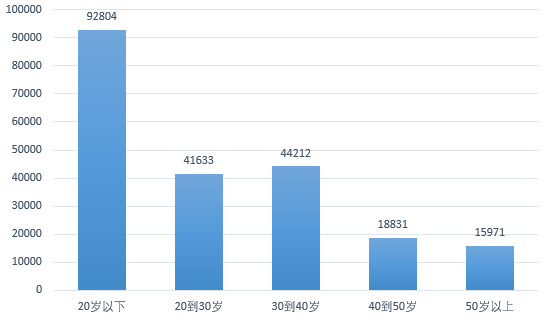
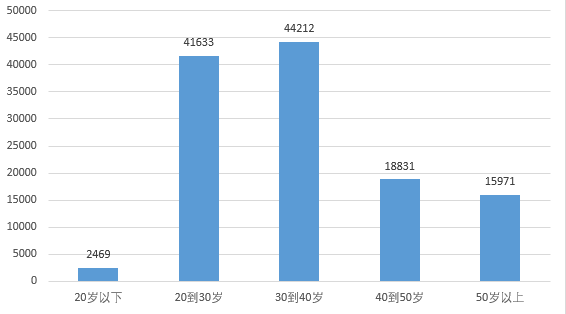
~

diff --git a/数据分析/项目/Airbnb产品数据分析/Airbnb产品数据分析.md b/数据分析/项目/Airbnb产品数据分析/Airbnb产品数据分析.md
@@ -72,6 +72,32 @@ print(train_users_df.head())
 4        Chrome                  US  
 ```
 
+| 数据表：train_users     | 含义                                           |
+| ----------------------- | ---------------------------------------------- |
+| id                      | 用户ID                                         |
+| date_account_created    | 帐户创建日期                                   |
+| date_first_booking      | 首次预订的日期                                 |
+| gender                  | 性别                                           |
+| age                     | 年龄                                           |
+| signup_method           | 注册方式                                       |
+| signup_flow             | 用户注册的页面                                 |
+| language                | 语言偏好                                       |
+| affiliate_channel       | 营销方式                                       |
+| affiliate_provider      | 营销来源，例如google，craigslist，其他         |
+| first_affiliate_tracked | 在注册之前，用户与之交互的第一个营销广告是什么 |
+| signup_app              | 注册来源                                       |
+| first_device_type       | 注册时设备的类型                               |
+| first_browser           | 注册时使用的浏览器名称                         |
+| country_destination     | 目的地国家                                     |
+
+| 数据表sessions | 含义                    |
+| -------------- | ----------------------- |
+| user_id        | 与users表中的“id”列连接 |
+| action         | 埋点名称                |
+| action_type    | 操作事件的类型          |
+| action_detail  | 操作事件的描述          |
+| device_type    | 此次会话所使用的设备    |
+
 ## 4.数据清洗
 
 ### 缺失值查看
@@ -201,13 +227,15 @@ train_users_df = train_users_df.drop_duplicates(subset=['id'],keep='first')
 
    ![性别分布](性别分布.png)
 
+   可以看出总样本数据中，女性人数占比略高于男性，产品受女性欢迎度较高。
+
    
 
 2. 年龄分布
 
    ```python
    def change_age(age):
-       if age <= 20:
+       if age >0 and age <=20:
            return "20岁以下"
        elif age >20 and age <=30:
            return "20到30岁"
@@ -215,7 +243,7 @@ train_users_df = train_users_df.drop_duplicates(subset=['id'],keep='first')
            return "30到40岁"
        elif age >40 and age <=50:
            return "40到50岁"
-       else:
+       elif age >50 and age <=100:
            return "50岁以上"
            
    age_df = train_users_df.copy()
@@ -225,13 +253,17 @@ train_users_df = train_users_df.drop_duplicates(subset=['id'],keep='first')
 
    | 年龄     | 人数  |
    | -------- | ----- |
-   | 20岁以下 | 92804 |
+   | 20岁以下 | 2469  |
    | 20到30岁 | 41633 |
    | 30到40岁 | 44212 |
    | 40到50岁 | 18831 |
    | 50岁以上 | 15971 |
 
    ![性别分布](年龄分布.png)
+
+   由直方图可以看出，主要用户群体集中在20-40岁人群，20岁以下群体可能由于资金因素，消费人群最少
+
+   
 
 3. 使用语言分布
 
@@ -269,6 +301,12 @@ train_users_df = train_users_df.drop_duplicates(subset=['id'],keep='first')
 
    ![性别分布](语言分布.png)
 
+   - airbnb产品很国际化，用户遍布多个地区。
+
+   - 有超过90%的用户是英语国家（欧美）；airbnb是2013年开始进入中国市场的（此数据集止于2014年），所以此时中文用户数量虽然排名第二，但是占比却非常小。
+
+     
+
 4. 国家目的地分布
 
    ```python
@@ -290,6 +328,10 @@ train_users_df = train_users_df.drop_duplicates(subset=['id'],keep='first')
    | PT    | 217   |
 
    ![目的地国家](目的地国家.png)
+
+   客户预定民宿地主要集中在美国，其次是法国意大利德国等。
+
+   
 
 5. 注册app来源分布
 
@@ -320,7 +362,8 @@ train_users_df = train_users_df.drop_duplicates(subset=['id'],keep='first')
 
    ![](注册app.png)
 
-   
+   - web端浏览量占比86%，其中web端桌面应用占比接近90%，表明大多数用户喜欢用桌面网页端浏览，可能是因为桌面web端访问方便，数据丰富，选择民宿风格，查看地理位置方便。另一个可能的原因是2014年智能手机还没有像现在一样十分普遍。
+   - 使用苹果设备的用户数量大于使用其他设备的用户数量。
 
 ### 5.2流量分析
 
@@ -347,7 +390,13 @@ train_users_df = train_users_df.drop_duplicates(subset=['id'],keep='first')
 
    ![](用户量.png)
 
+- airbnb的用户增长曲线健康，前期（2011年之前）平缓，2012年2月之后开始快速增长。
 
+- 2012年之后的增长速度很快。
+
+- 此产品新用户的增加**存在季节性规律**：每年的7～10月，产品都会迎来用户增长的高峰，推测为夏季是旅行的旺季，而短租产品本身就是旅行消费的一种。
+
+  
 
 2.渠道转化
 
@@ -361,7 +410,47 @@ af_prv_df['类型'] = af_prv_df['channel'] + '-' + af_prv_df['provider']
 af_prv_df['占比'] = af_prv_df['渠道预定数量'] /af_prv_df['渠道全部数量']
 ```
 
+| 类型                 | 渠道预定数量 | 渠道全部数量 | 占比  |
+| -------------------- | ------------ | ------------ | ----- |
+| seo-google           | 2739         | 5691         | 48.1% |
+| other-craigslist     | 1616         | 3471         | 46.6% |
+| seo-facebook         | 724          | 1677         | 43.2% |
+| direct-direct        | 59234        | 137426       | 43.1% |
+| sem-brand-google     | 10705        | 25069        | 42.7% |
+| other-other          | 1508         | 3656         | 41.2% |
+| sem-brand-bing       | 375          | 950          | 39.5% |
+| sem-non-brand-google | 6516         | 16947        | 38.4% |
+| api-other            | 2785         | 8167         | 34.1% |
+| remarketing-google   | 368          | 1094         | 33.6% |
+| sem-non-brand-bing   | 296          | 889          | 33.3% |
+| other-padmapper      | 252          | 768          | 32.8% |
+| sem-non-brand-vast   | 271          | 829          | 32.7% |
+| content-google       | 451          | 2892         | 15.6% |
+
+![](渠道数量.png)
+
 ![](渠道转化.png)
+
+
+
+- 在所有渠道转化中，绝大多数渠道的转化率都超过了30%，整体转化情况良好。
+
+- content_google的转化率异常，明显低于转化率的均值。需要查看哪里出现问题。
+
+- drict（直接应用市场下载注册）的注册量最多，占总注册量的64.38%。我们的分析目的是查看推广渠道的好坏，具体分析中排除了drict。
+
+- sem（谷歌竞价）整体的表现要远好于其他营销方式，前两种sem的营销方式，无论是带来的用户量,注册量及转化率都好于其他营销方式。
+
+- 渠道注册量符合二八定律，前7个渠道的注册量已经占据了产品总的渠道来源的90%以上。
+
+  
+
+  **优质渠道**
+
+  - seo_google的注册量和转化率表现都很好。
+  - sem_brand_google的注册量和转化率表现很好。
+
+  
 
 3.营销广告转化
 
@@ -376,21 +465,36 @@ first_aff_trac_df['占比'] = first_aff_trac_df['该来源预定人数'] /first_
 first_aff_trac_df = first_aff_trac_df[first_aff_trac_df['营销广告来源'] != 'untracked']
 ```
 
+| 营销广告来源  | 该来源预定人数 | 该来源全部人数 | 占比  |
+| ------------- | -------------- | -------------- | ----- |
+| marketing     | 63             | 139            | 45.3% |
+| linked        | 20102          | 46287          | 43.4% |
+| omg           | 16425          | 43982          | 37.3% |
+| tracked-other | 2290           | 6156           | 37.2% |
+| product       | 542            | 1556           | 34.8% |
+| localops      | 9              | 34             | 26.5% |
+
 ![](广告占比.png)
+
+- linked推广内容带来的用户转化率和流量都很高，可以后期进行重点推广。
+- marking带来的流量较少，但是转化率最高，可以进行重点推广。
+- 'product'及'localops'排在所有营销内容的最后两名，带来的流量及转化量都不是很理想，后续可以较少相关资源的配比。
+
+
 
 4.转化量漏斗分析
 
 ```python
 #总用户量
 total_user_df = sessions_df.drop_duplicates('user_id')
-#注册用户数
-user_creat_df = total_user_df[['user_id','action_detail']].merge(train_users_df[['id','date_account_created']],how = 'left',left_on = 'user_id',right_on = 'id')
-#定义用户在平台浏览次数超过10次即为活跃用户。活跃用户数为
+#定义用户在平台操作次数超过10次即为活跃用户。
+#活跃用户数
 n_df = sessions_df[['user_id','action_detail']].merge(train_users_df[['id','date_account_created']],how = 'left',left_on = 'user_id',right_on = 'id')
-n_df = n_df[n_df['date_account_created'].notnull()]
 n_df = n_df.groupby('user_id').size().to_frame().reset_index()
 n_df.columns = ['user_id','num']
 n_df = n_df[n_df['num']>10]
+#注册用户数
+user_creat_df = total_user_df[['user_id','action_detail']].merge(train_users_df[['id','date_account_created']],how = 'left',left_on = 'user_id',right_on = 'id')
 #注册用户中提交过订单信息的用户数
 place_order_df = user_creat_df[user_creat_df['date_account_created'].notnull()]
 place_order_df = sessions_df[sessions_df['action_detail'] == 'reservations'].groupby('user_id').size()
@@ -407,12 +511,36 @@ re_pay_user_df = re_pay_user_df[re_pay_user_df['num'] > 1]
 | 类别             | 人数   |
 | ---------------- | ------ |
 | 总用户量         | 135484 |
+| 活跃用户数       | 111977 |
 | 注册用户数       | 73815  |
-| 活跃用户数       | 58881  |
 | 提交订单用户数   | 10366  |
 | 成功支付的用户数 | 9018   |
 | 重复购买用户数   | 4153   |
 
 ![](转化率.png)
 
+- 注册用户到下单用户是airbnb转化漏斗中流失率最高的一个环节。仅有14.04%的注册用户下单。
+
+- 活跃和复购环节表现的好，其中有46.05%的下单用户复购，说明在商品质量和后续服务比较吸引用户。
+
+- 提交订单的用户中有大约13%的用户没有最终支付，需要查找原因。
+
+  
+
 ## 6.总结
+
+- 用户性别中，女性用户多于男性用户，但是差别不大。用户年龄以中青年为主。用户分布地区最多的为欧美地区，其次是中国，但欧美占比达到了90%以上。
+- 此产品新用户的增加存在季节性规律：每年的7～10月，产品都会迎来用户增长的高峰。
+- 直连用户的注册量最多，占总注册量的64.38%。注册量排名前6的渠道，占据了产品全部渠道注册来源数量的90%以上。
+- 主要渠道中，content_google的转化率异常，明显低于转化率的均值。
+- airbnb转化漏斗中流失率最高的一个环节是“用户下单”，仅有14%的注册用户下单。下单用户中有大约13%的用户最终没有支付成功。活跃和复购环节表现良好，产品质量和后续服务做的比较好。
+
+## 7.建议
+
+1. 根据年龄分布特征，建议SEO或者付费广告投放时，投放对象细化至年龄在29～39岁的男性。
+2. 7～10月是业务的旺季，建议运营部门在每年的7～10月加大活动营销的力度，同时加大渠道广告的投放力度。
+3. 在主要渠道中content_google只有15%，建议运营部门计算此渠道的ROI和ARPU，如果ROI > ARPU，建议停止此渠道的投放。
+4. SEO推广下各渠道的拉新和转化都好，SEO作为一种较低成本的获客方式，建议企业管理层日常要更加支持SEO相关的资源投入，甚至考虑扩大SEO的团队。
+5. 不通营销内容的拉新和转化效果也不同，优秀营销内容（linked）和表现较差的营销内容（localops），如果在活动过程建议对localops及时优化内容甚至更换。如果是活动之后、建议运营部门针对不同质量的营销内容做对比分析。
+6. 注册用户到下单用户是airbnb转化漏斗中流失率最高的一个环节，仅有14%的注册用户真正下单，此环节作为企业营收的主要来源之一，建议围绕提高下单率做更多的工作。例如针对活跃用户的用户轨迹定期推送（产品push，短信邮件）优质房源。
+7. 下单用户中有大约13%的用户最终没有支付，需要排查具体原因，建议进行用户调研、或者在产品上统计用户未支付原因（是用户自身决策导致、还是产品流程的原因、还是支付类型不满足个别地区等）。
